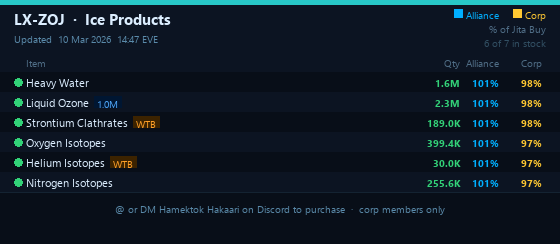
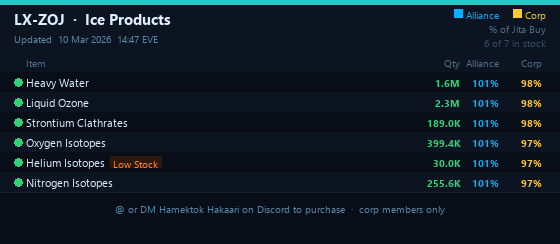
Add item flag badges to catalog images
Catalog PNGs now show Low Stock, Hot Item, New Arrival, Limited Supply,
and Popular badges (from item_flags table) inline after the item name.
Out-of-stock flags are excluded. Name truncates to make room for badges.

Changed region(s): [[0.2125, 0.459, 0.3036, 0.5451], [0.1821, 0.6311, 0.3036, 0.6885], [0.1821, 0.4016, 0.2125, 0.459]]

diff --git a/generate_catalog_image.py b/generate_catalog_image.py
@@ -32,11 +32,24 @@ GREEN   = ( 50, 210, 120)
 ACCENT  = (  0, 175, 255)
 GOLD    = (255, 200,  50)
 
-# Flag badge colours
-FLAG_WTB_BG   = ( 60,  35,   0)   # dark amber bg for WTB badge
-FLAG_WTB_FG   = (255, 160,  40)   # bright amber text
-FLAG_QUOTA_BG = (  0,  22,  50)   # dark blue bg for quota badge
-FLAG_QUOTA_FG = ( 80, 170, 255)   # light blue text
+# Item flags — mirrors ITEM_FLAGS in admin_dashboard.py (out_of_stock excluded)
+_FLAGS_RAW = [
+    ('low_stock',    'Low Stock',      '#ff8844'),
+    ('hot_item',     'Hot Item',       '#ff4444'),
+    ('new_arrival',  'New Arrival',    '#44aaff'),
+    ('limited',      'Limited Supply', '#cc66ff'),
+    ('popular',      'Popular',        '#44cc88'),
+]
+
+def _hex_rgb(h):
+    h = h.lstrip('#')
+    return tuple(int(h[i:i+2], 16) for i in (0, 2, 4))
+
+# key -> (label, fg_rgb, bg_rgb)
+FLAG_DISPLAY = {
+    k: (lbl, _hex_rgb(col), tuple(int(c * 0.18) for c in _hex_rgb(col)))
+    for k, lbl, col in _FLAGS_RAW
+}
 
 CAT_COLOURS = {
     'minerals':      (  0, 175, 255),
@@ -152,19 +165,15 @@ def make_category_image(cat, items_stock, items_all, ts_str, fonts):
     y += ROW_H
 
     # ── Item rows ─────────────────────────────────────────────────────────────
-    for i, (name, qty, price_pct, alliance_disc, buyback, quota) in enumerate(items_stock):
+    for i, (name, qty, price_pct, alliance_disc, flags) in enumerate(items_stock):
         row_bg = BG if i % 2 == 0 else BG2
         d.rectangle([0, y, IMG_W, y + ROW_H], fill=row_bg)
 
         # Dot
         d.ellipse([PAD, y + 6, PAD + 8, y + 14], fill=GREEN)
 
-        # Measure flag badge widths so the name can be truncated correctly
-        flag_w = 0
-        if buyback:
-            flag_w += tw(d, 'WTB', f_small) + 6 + 3
-        if quota > 0:
-            flag_w += tw(d, fmt_qty(quota), f_small) + 6 + 3
+        # Measure total flag badge width so name can be truncated correctly
+        flag_w = sum(tw(d, lbl, f_small) + 6 + 3 for lbl, _, _ in flags)
 
         # Name — truncated to leave room for flags
         name_avail = NAME_W - flag_w
@@ -173,10 +182,8 @@ def make_category_image(cat, items_stock, items_all, ts_str, fonts):
 
         # Flags — drawn immediately after the (possibly truncated) name
         fx = PAD + 12 + tw(d, disp, f_item) + 5
-        if buyback:
-            fx = _draw_flag(d, fx, y, 'WTB', FLAG_WTB_FG, FLAG_WTB_BG, f_small)
-        if quota > 0:
-            fx = _draw_flag(d, fx, y, fmt_qty(quota), FLAG_QUOTA_FG, FLAG_QUOTA_BG, f_small)
+        for lbl, fg, bg in flags:
+            fx = _draw_flag(d, fx, y, lbl, fg, bg, f_small)
 
         # Qty — right-aligned at qty column anchor
         d.text((qty_right, y + 4), fmt_qty(qty), font=f_price, fill=GREEN, anchor='ra')
@@ -238,12 +245,10 @@ def main():
 
     # ── Query items ───────────────────────────────────────────────────────────
     rows = c.execute('''
-        SELECT t.category, t.type_name, t.display_order,
+        SELECT t.type_id, t.category, t.type_name, t.display_order,
                COALESCE(MAX(i.quantity), 0) AS qty,
                t.price_percentage,
-               COALESCE(t.alliance_discount, 0) AS alliance_discount,
-               COALESCE(t.buyback_accepted, 0) AS buyback_accepted,
-               COALESCE(t.buyback_quota,    0) AS buyback_quota
+               COALESCE(t.alliance_discount, 0) AS alliance_discount
         FROM tracked_market_items t
         LEFT JOIN lx_zoj_inventory i
                ON i.type_id = t.type_id
@@ -251,6 +256,13 @@ def main():
         GROUP BY t.type_id
         ORDER BY t.category, t.display_order, t.type_name
     ''').fetchall()
+
+    # Build flags lookup: type_id -> [(label, fg, bg), ...]
+    flags_lookup: dict = {}
+    for tid, fk in c.execute(
+            "SELECT type_id, flag_key FROM item_flags WHERE flag_key != 'out_of_stock'"):
+        if fk in FLAG_DISPLAY:
+            flags_lookup.setdefault(tid, []).append(FLAG_DISPLAY[fk])
 
     snap_ts = c.execute(
         'SELECT MAX(snapshot_timestamp) FROM lx_zoj_inventory'
@@ -267,14 +279,14 @@ def main():
     cat_all   = defaultdict(list)
     cat_stock = defaultdict(list)
 
-    for cat, name, disp_ord, qty, price_pct, alliance_disc, buyback, quota in rows:
+    for type_id, cat, name, disp_ord, qty, price_pct, alliance_disc in rows:
         if cat not in SHOW_CATS or not cat_visible.get(cat, True):
             continue
         if cat == 'ice_products'   and not ice_sub_visible(disp_ord):
             continue
         if cat == 'moon_materials' and not moon_sub_visible(disp_ord):
             continue
-        entry = (name, qty, price_pct, alliance_disc, buyback, quota)
+        entry = (name, qty, price_pct, alliance_disc, flags_lookup.get(type_id, []))
         cat_all[cat].append(entry)
         if qty > 0:
             cat_stock[cat].append(entry)
